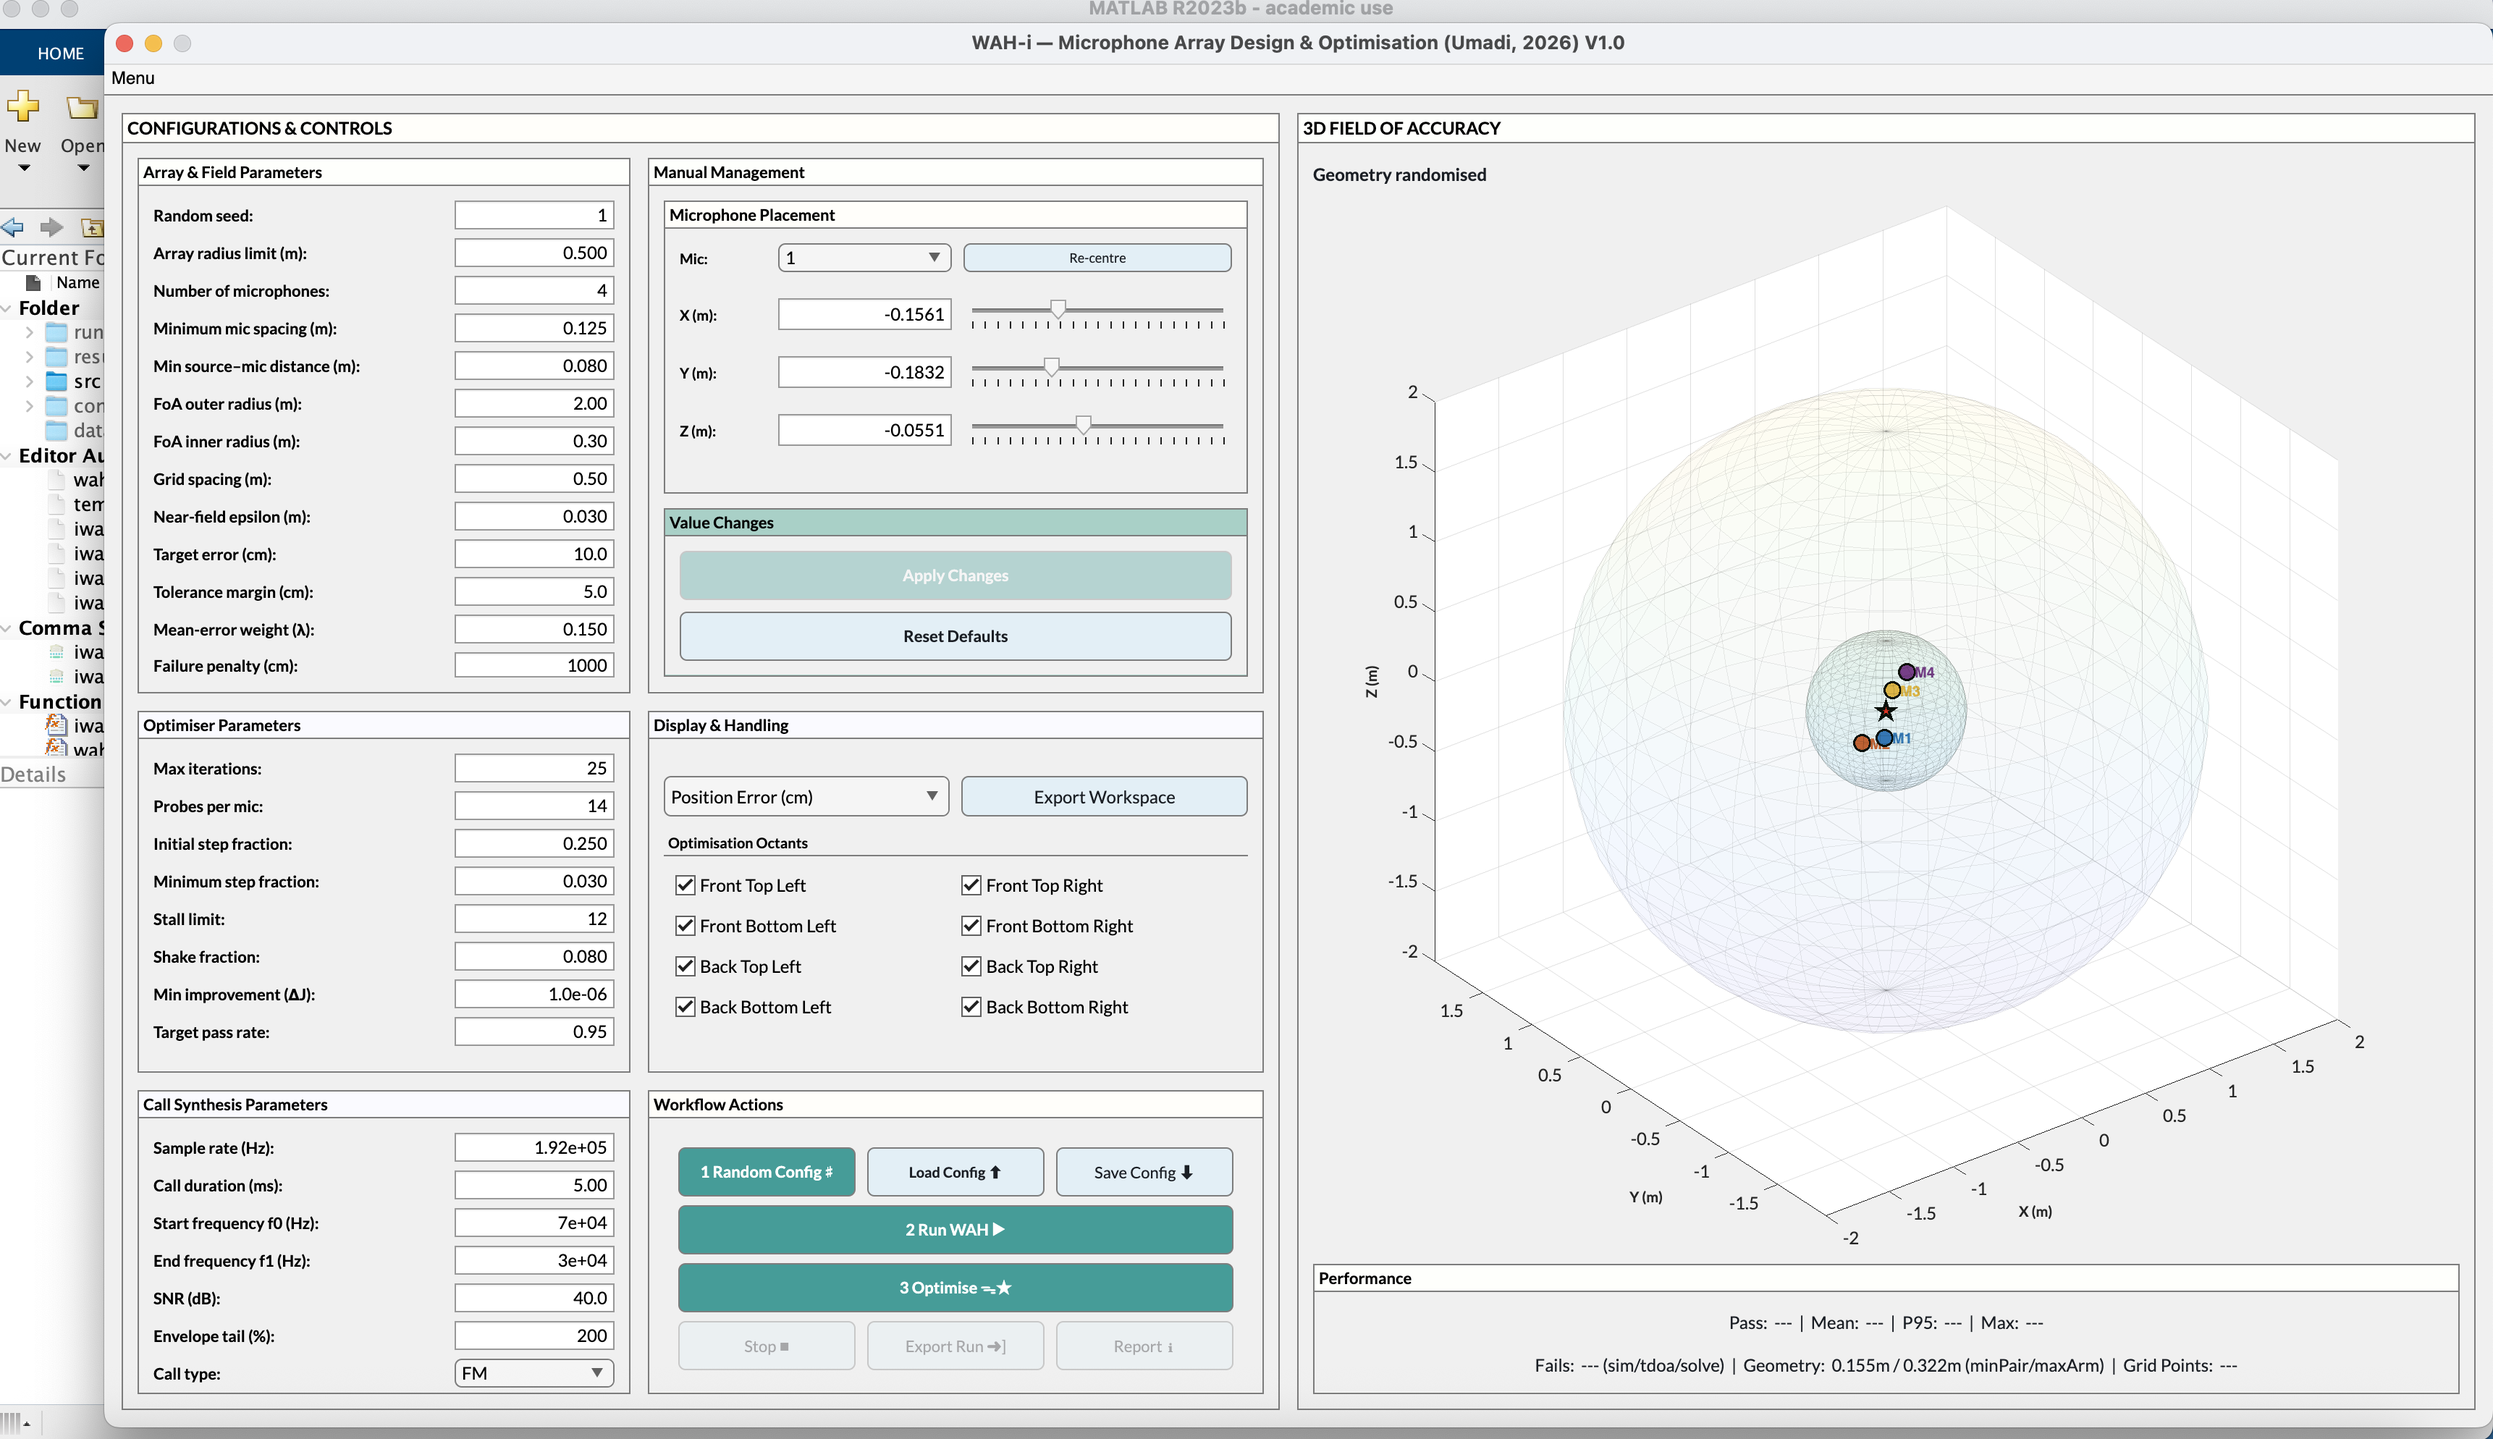
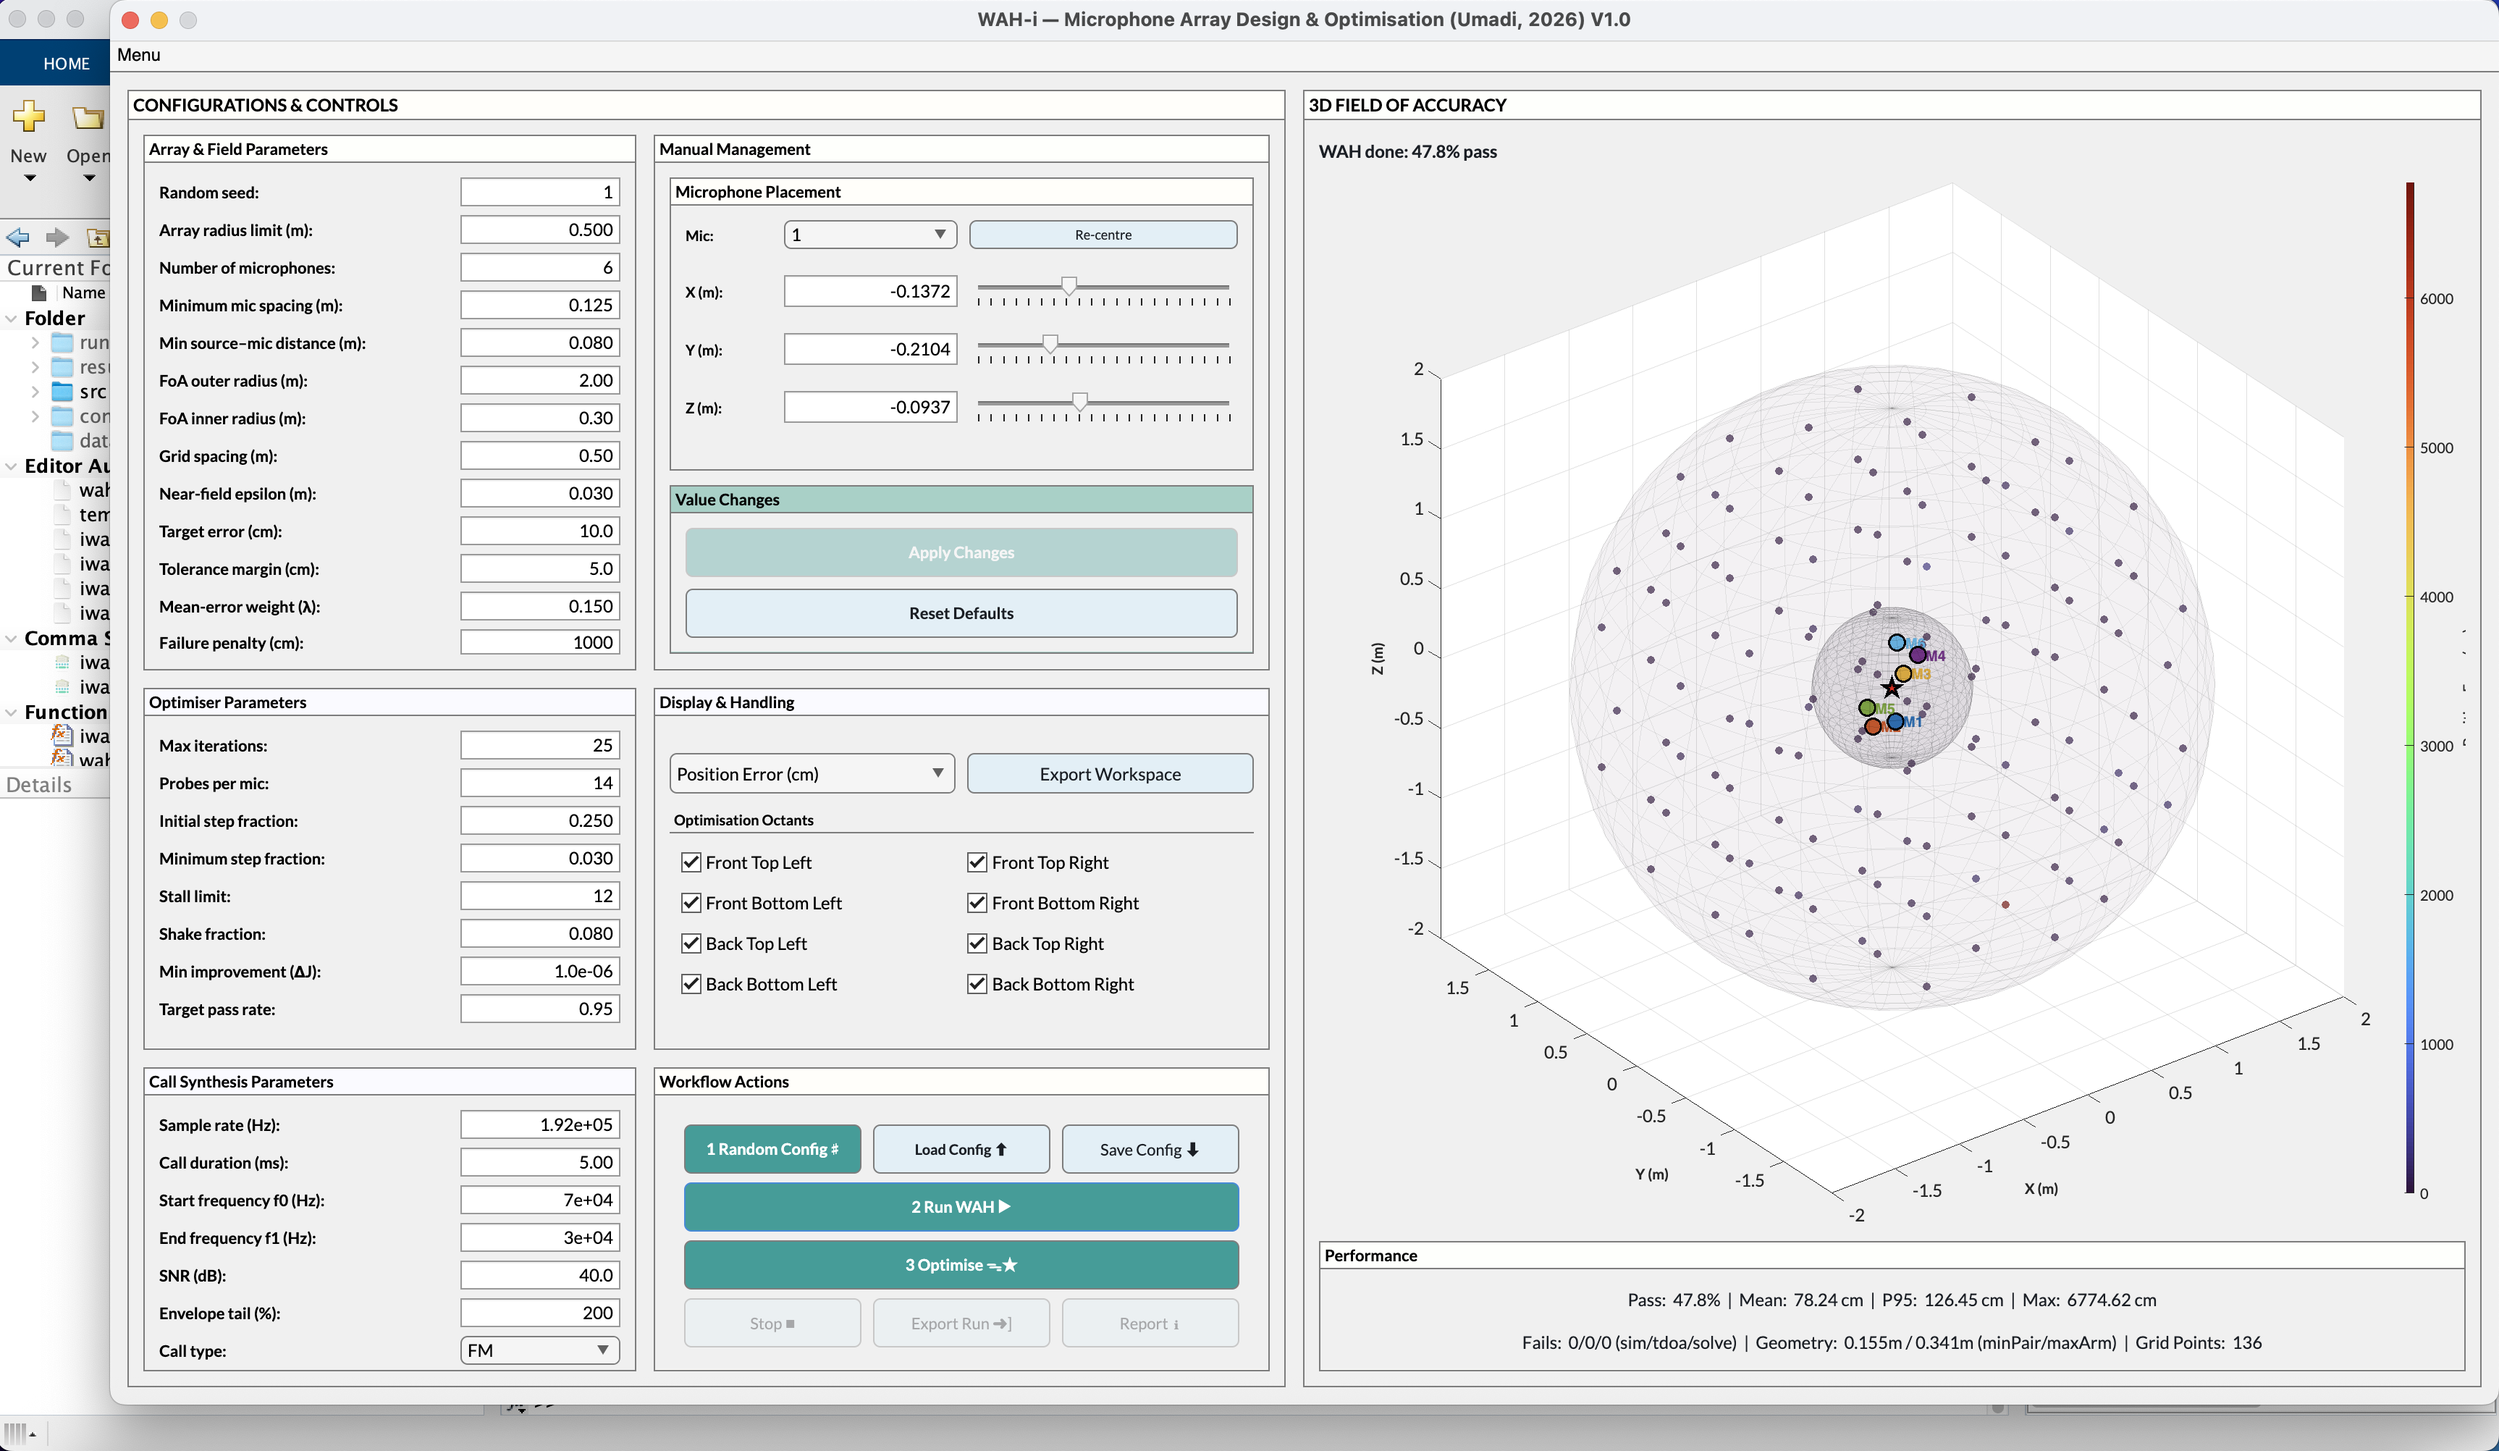
quickstart  doc updated

diff --git a/docs/quickstart.md b/docs/quickstart.md
@@ -7,33 +7,155 @@ nav_order: 3
 
 # Quickstart
 
-## 1) Launch
-- **Deployed app**: open *WAHi* from Applications / Start menu.
+This page walks you through a **minimal, complete WAH-i workflow**: from launching the app to obtaining an optimised microphone geometry and exporting results.
+
+All versions of WAH-i (Windows, macOS, MATLAB) run the **same optimiser core**. Differences in confirmed appearance may arise due to font availability or screen resolution, but results are identical.
+
+---
+
+## 1) Launch WAH-i
+
+- **Deployed app**: open *WAH-i* from the Applications / Start menu.
 - **MATLAB**: run:
   ```matlab
   wahi_gui
-  
-2) Create a geometry
+  ```
+  <figure style="margin: 1.25rem 0;">
+  <img src="{{ '/assets/img/quickstart/win_run.PNG' | relative_url }}"
+       alt="WAH-i application launch placeholder"
+       style="width:100%; max-width:900px; height:auto; border-radius:10px;">
+  <figcaption style="margin-top:10px; font-size:0.95em; color:#666;">
+    <strong>Installed App:</strong> Launching WAH-i on Windows / macOS.  
+    The app window is fixed-size to ensure a consistent layout across platforms.
+  </figcaption>
+	</figure>
 
-Click 1 Random Config ♯ (or load your own CSV).
+> Note
+>
+>  The deployed app window is intentionally non-resizable to maintain a consistent panel layout.
+> Advanced users can customise layout behaviour when running from MATLAB.
+
+## 2) Create or load a microphone geometry
+
+You can start from scratch or reuse an existing configuration:
+	•	Random Config ♯
+Generates a random geometry for the selected number of microphones.
+	•	Load Config
+Loads a previously saved geometry from CSV, automatically updating the display.
+
+The Random Seed ensures reproducibility: using the same seed will generate the same random geometry and optimisation trajectory.
+
+<figure style="margin: 1.25rem 0;">
+  <div style="
+    display: flex;
+    gap: 16px;
+    flex-wrap: wrap;
+    justify-content: center;
+  ">
+    <img src="{{ '/assets/img/quickstart/random_1.png' | relative_url }}"
+         alt="Randomised 4 microphone configuration example"
+         style="width:100%; max-width:440px; height:auto; border-radius:10px;">
+    <img src="{{ '/assets/img/quickstart/random_2.png' | relative_url }}"
+         alt="Randomised 6 microphone configuration example"
+         style="width:100%; max-width:440px; height:auto; border-radius:10px;">
+  </div>
+  <figcaption style="margin-top:10px; font-size:0.95em; color:#666; text-align:center;">
+    Two example randomised microphone geometries generated using the 4 and 6 microphone counts with the same random seeds.
+    Randomisation provides diverse starting points for optimisation while remaining fully reproducible.
+  </figcaption>
+</figure>
+
+> Tip
+> Loading a previously “good enough” configuration is an effective way to refine designs in stages and compare alternatives.
 
 3) Define the Field of Accuracy (FoA)
 
-In Array & Field Parameters:
-	•	Set FoA outer radius (R) and inner radius (Rin)
-	•	Set grid spacing
-	•	Keep a sensible Min source–mic distance to avoid near-field degeneracies
+The Field of Accuracy (FoA) specifies where in space localisation performance is evaluated and optimised. Rather than optimising uniformly over all directions and distances, WAH-i allows you to focus computational effort on the regions that matter most for your task.
 
-Click Apply Changes.
+In Array & Field Parameters, set:
+	•	FoA outer radius (R) and inner radius (Rin) to define the spatial shell of interest
+	•	Grid spacing, starting coarse for exploration and refining later for precision
+	•	Minimum source–microphone distance to avoid near-field degeneracies and unstable solutions
 
-4) Evaluate baseline
+In addition, the octant selection checkboxes allow you to restrict optimisation to specific spatial sectors (e.g. front-facing, elevated, or lateral regions).
+Combined with tailored inner/outer radius ranges, this provides a powerful way to custom-define the spatial regions that matter for your experiment or deployment.
 
-Click 2 Run WAH ▶
+This is particularly useful when:
+	•	Targets are expected only in a known sector (e.g. forward flight, ground-facing arrays)
+	•	Certain regions are mechanically inaccessible or irrelevant
+	•	You want to trade global coverage for higher accuracy in a restricted volume
 
-You should now see a 3D colour field + summary metrics (Pass, Mean, P95, Max).
+Once these parameters are set, click Apply Changes to commit the FoA definition before running or optimising.
 
-5) Optimise
+### Example FoA Configurations
 
-Click 3 Optimise ᯓ★
+<figure style="margin: 1.25rem 0;">
+  <div style="
+    display: flex;
+    gap: 16px;
+    flex-wrap: wrap;
+    justify-content: center;
+  ">
+    <img src="{{ '/assets/img/quickstart/foa_example_1.png' | relative_url }}"
+         alt="Front-Top Field of Accuracy. FoA Outer R 3m, FoA Inner R Default. Unoptimised Run"
+         style="width:100%; max-width:440px; height:auto; border-radius:10px;">
+    <img src="{{ '/assets/img/quickstart/foa_example_2.png' | relative_url }}"
+         alt="Front-Top Field of Accuracy. FoA Outer R 3m, FoA Inner R 2m. Unoptimised Run."
+         style="width:100%; max-width:440px; height:auto; border-radius:10px;">
+  </div>
+  <figcaption style="margin-top:10px; font-size:0.95em; color:#666; text-align:center;">
+    Two example Fields of Accuracy. In the second example, the inner radius is increased to 2m, creating thinner shell of FoA. The selected octants are limited to the front-top regions.
+  </figcaption>
+</figure>
 
-Start with coarse settings first (see Optimisation tips).
+
+  Important
+  Any change to geometry or field parameters requires clicking Apply Changes before running evaluation or optimisation.
+
+## 4) Evaluate the baseline geometry
+
+Click Run WAH ▶. Apply the Widefield Acoustics Heuristics algorithm to estimate the spatial accuracy at given grid points.  ([Read the paper](https://doi.org/10.1186/s12862-025-02441-4))
+
+WAH-i evaluates localisation performance across the FoA and displays:
+	•	3D colour-coded accuracy field
+	•	Summary metrics: Pass rate, Mean, P95, Max error
+
+This baseline evaluation provides a reference for judging optimisation gains.
+
+## 5) Optimise the geometry
+
+Click Optimise ᯓ★.
+
+For best results:
+	•	Start with coarse grid resolution. Increasing grid resolution adds computational costs.
+	•	Use conservative step sizes
+	•	Increase accuracy thresholds gradually
+
+See Optimisation tips for detailed guidance on staged optimisation strategies.
+
+## 6) Review, export, and save
+
+After optimisation:
+	•	View the report to inspect improvements and convergence
+	•	Save report for documentation or sharing
+	•	Export .mat file for deeper analysis in MATLAB or Python
+	•	Save Config to retain the optimised microphone geometry for future designs
+
+This workflow supports rapid iteration while maintaining full reproducibility.
+
+# Advanced workflows — batch runs and analyses
+For large-scale comparisons or paper-level analyses:
+	•	The repository folder mat/ contains batch-run and analysis scripts
+	•	These scripts reproduce the full analysis pipeline used in the research paper
+(see linked publication)
+
+Batch workflows enable:
+	•	Comparison of multiple geometries
+	•	Repeated optimisation runs
+	•	Statistical analysis of convergence and robustness
+
+This is a more advanced workflow and benefits from substantial computational resources.
+
+## Design philosophy
+WAH-i is intentionally designed so that single-geometry GUI runs are sufficient for most field researchers.
+Batch analyses are provided for method development, benchmarking, and large comparative studies.

diff --git a/docs/install.md b/docs/install.md
@@ -77,7 +77,7 @@ wahi_gui
        alt="MATLAB launch placeholder"
        style="width:100%; max-width:900px; height:auto; border-radius:10px; box-shadow: 0 6px 18px rgba(0,0,0,0.08);">
   <figcaption style="margin-top:10px; font-size:0.95em; color:#666;">
-    <strong>GUI Launch:</strong> MATLAB `wahi_gui` launch and success output.
+    <strong>GUI Launch:</strong> MATLAB `wahi_gui` launch and successful first Run WAH with 6 mics.
   </figcaption>
 </figure>
 
